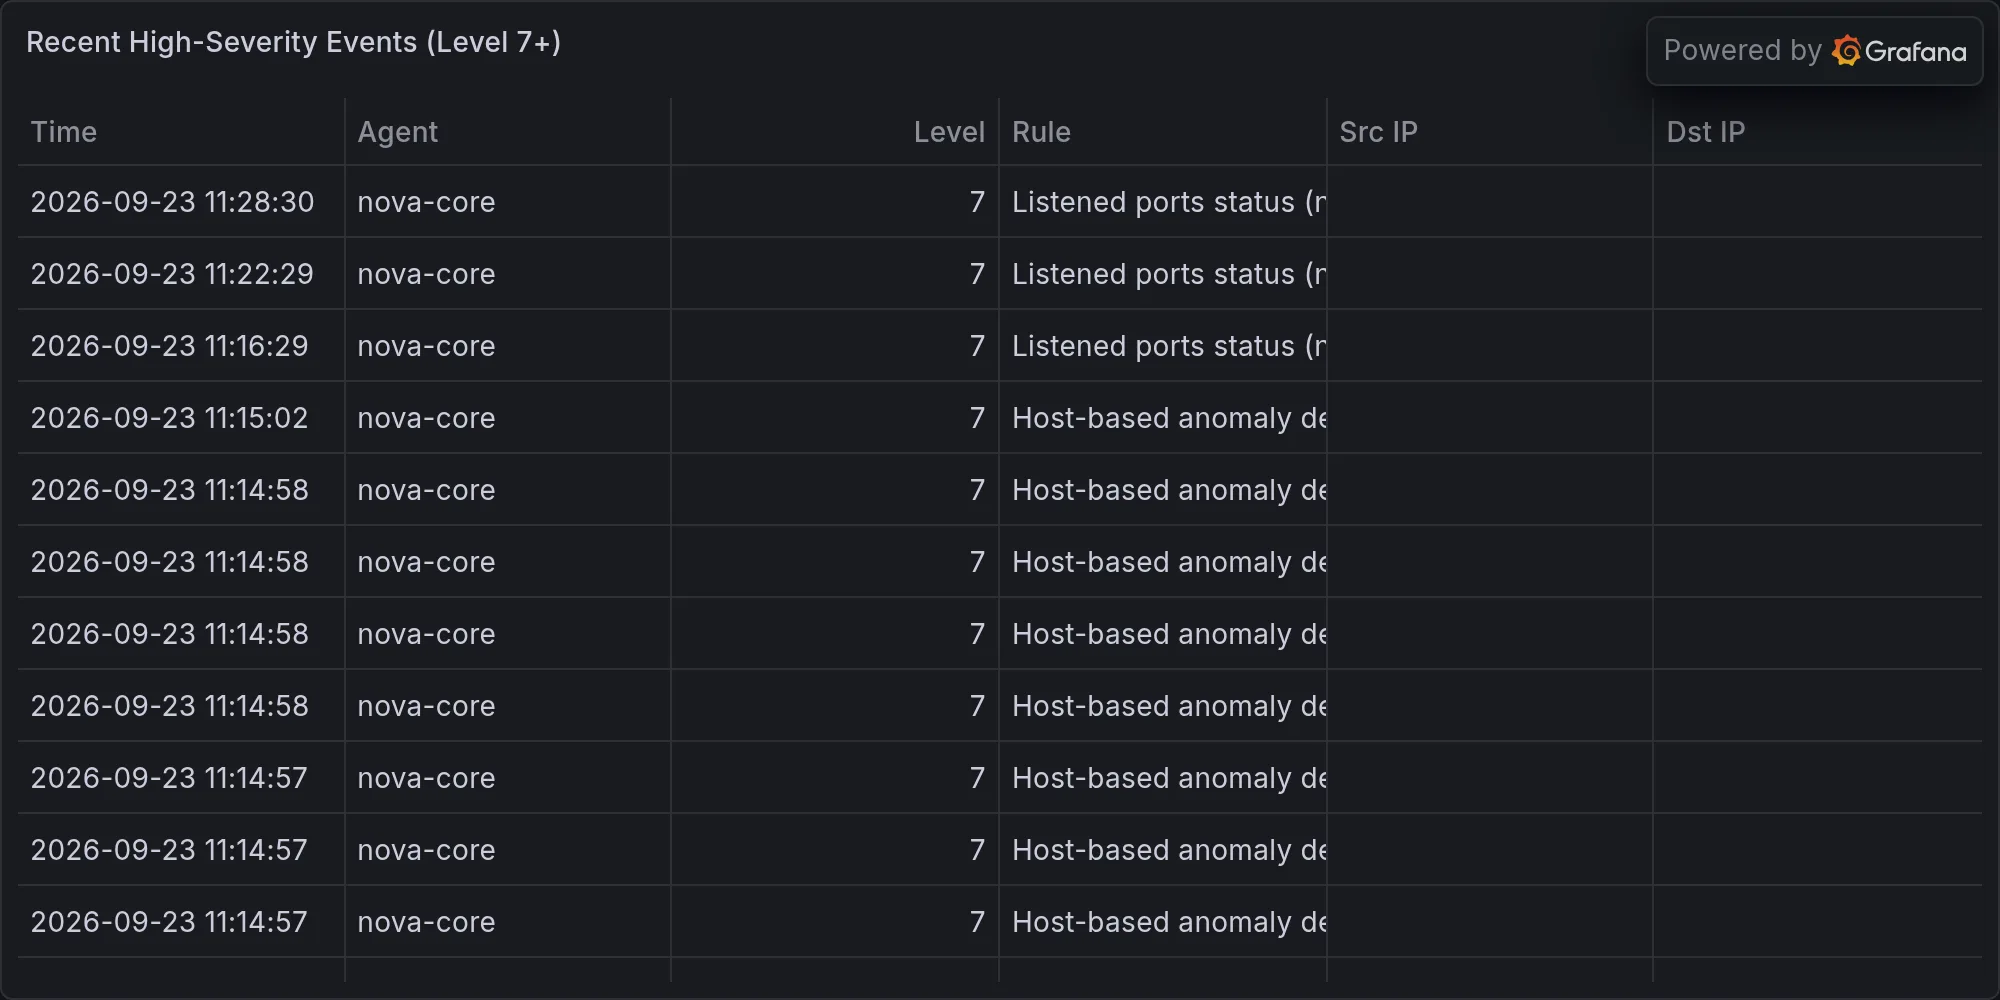
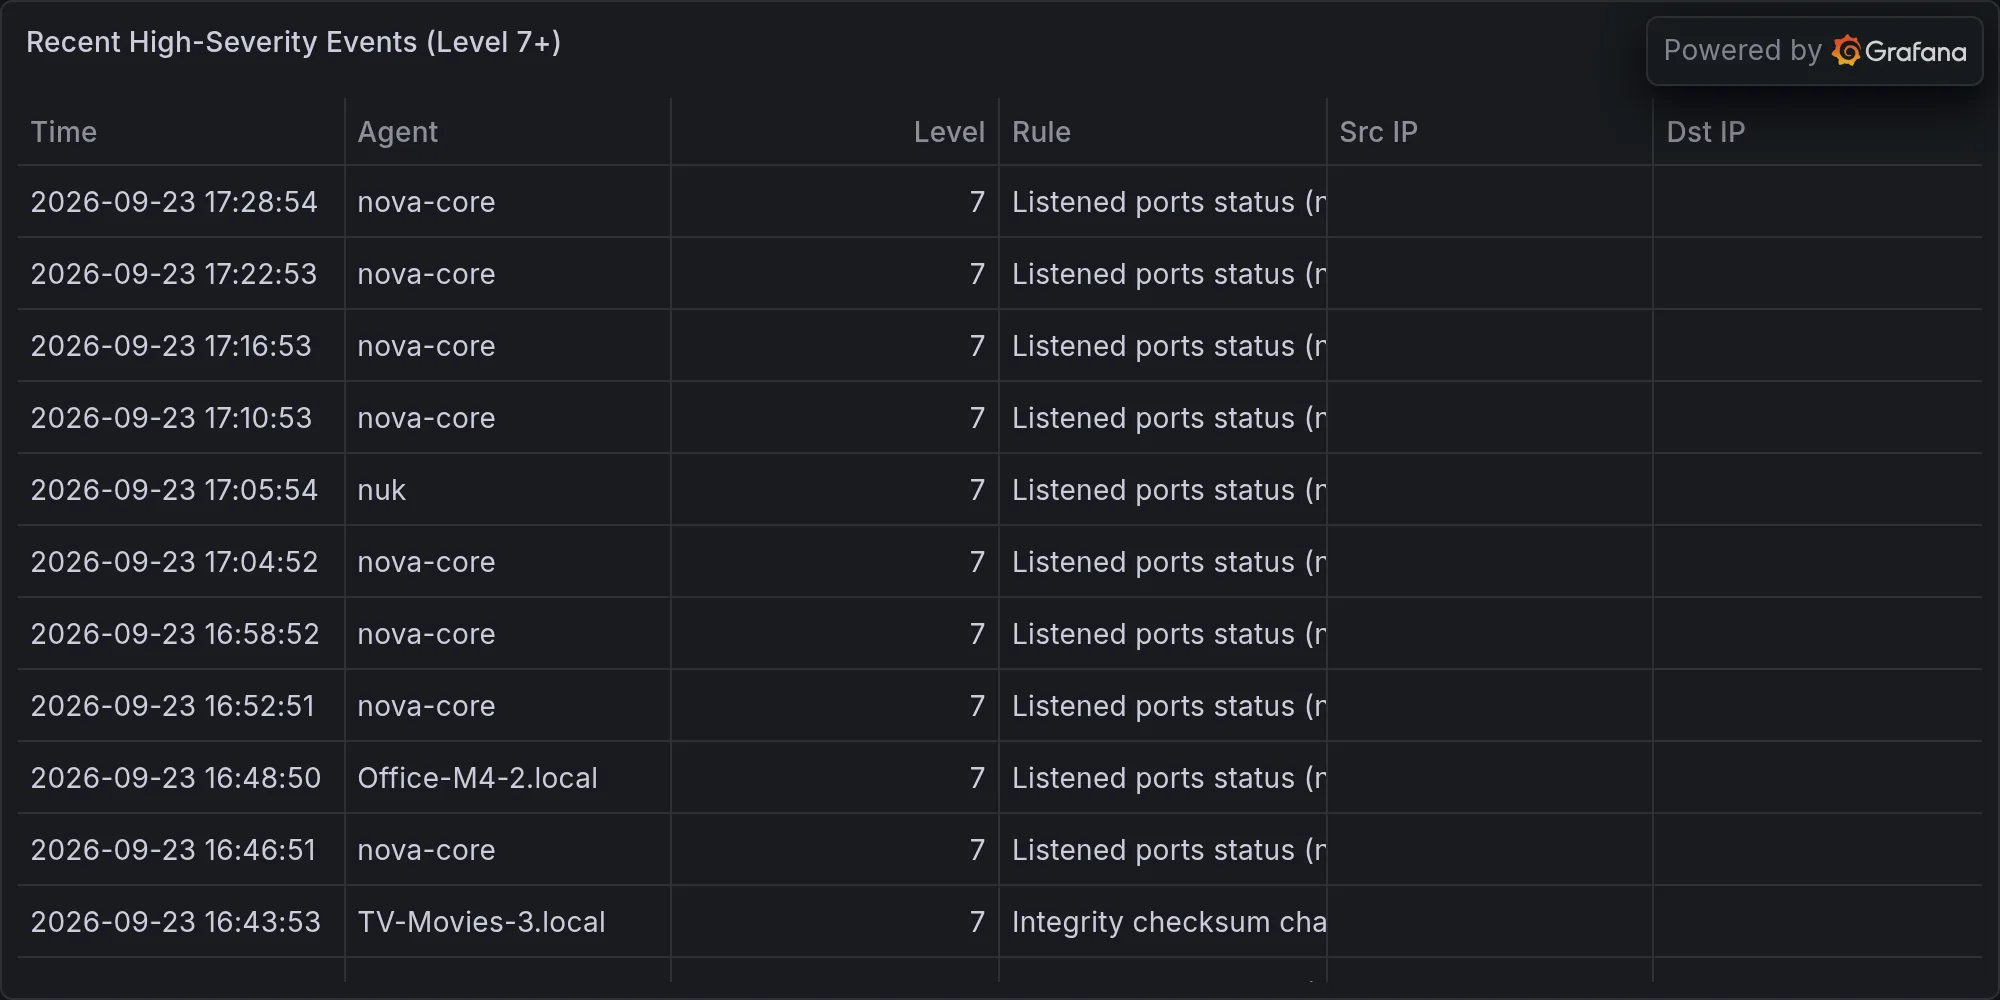
security: 2026-09-23 — **F5 BIG-IP APM Zero-Day RCE Actively Exploited —

diff --git a/content/operations/2026-09-23-f5-big-ip-apm-zero-day-rce-actively-exploited-patch-now.md b/content/operations/2026-09-23-f5-big-ip-apm-zero-day-rce-actively-exploited-patch-now.md
@@ -1,0 +1,49 @@
+---
+title: "🛡 **F5 BIG-IP APM Zero-Day RCE Actively Exploited — Patch Now**"
+date: 2026-09-23T17:31:39-07:00
+draft: false
+categories: ["operations"]
+tags: ["breaking-alert", "cso-online-f5-fixes-actively-exploited-z", "security"]
+description: "BREAKING: CSO Online: F5 fixes actively exploited zero-day flaw in BIG-IP APM (cont)"
+cover:
+  image: "/images/operations/2026-09-23-f5-big-ip-apm-zero-day-rce-actively-exploited-patch-now.webp"
+  alt: "**F5 BIG-IP APM Zero-Day RCE Actively Exploited — Patch Now**"
+  relative: false
+---
+
+*Published Wednesday, September 23, 2026 at 05:31 PM PT*
+
+![**F5 BIG-IP APM Zero-Day RCE Actively Exploited — Patch Now**](/images/operations/2026-09-23-f5-big-ip-apm-zero-day-rce-actively-exploited-patch-now.webp)
+
+**BLUF:** F5 has released a patch for CVE-2026-94127, a critical heap-based buffer overflow in BIG-IP Access Policy Manager (APM) allowing unauthenticated remote code execution. Active exploitation in the wild confirmed. Organizations running vulnerable BIG-IP APM instances should patch immediately.
+
+**DETAILS**
+
+- **Vulnerability:** CVE-2026-94127 — heap-based buffer overflow in F5 BIG-IP Access Policy Manager (APM)
+- **Attack vector:** Unauthenticated; attackers can send malicious traffic to achieve RCE without authentication
+- **Active exploitation:** Confirmed in-the-wild attacks; disclosed as zero-day with public exploits available
+- **Affected component:** F5 BIG-IP APM (particularly OAuth server deployments)
+- **Patch status:** F5 published security advisory and patches on 22 September 2026
+
+**IMPACT**
+
+Compromised BIG-IP APM instances could allow complete takeover of OAuth/access control infrastructure. Affected organizations include enterprises relying on BIG-IP APM for authentication and policy management—particularly identity providers, API gateways, and reverse proxies. An attacker gaining RCE on APM can bypass authentication, harvest credentials, redirect traffic, and pivot to downstream systems. Scope: any organization with unpatched BIG-IP APM in production.
+
+**RECOMMENDED ACTIONS**
+
+1. **Identify:** Audit your environment for F5 BIG-IP APM instances. Check version against F5 advisory.
+2. **Prioritize:** Treat as emergency if APM is internet-facing or handles OAuth/SAML flows.
+3. **Patch:** Apply F5's released fix immediately. If immediate patching is not possible, restrict network access to BIG-IP APM to trusted internal networks only.
+4. **Monitor:** Review logs for unusual traffic patterns, authentication bypasses, or failed RCE attempts (heap spray payloads).
+5. **Coordinate:** If you suspect compromise, isolate the system and initiate incident response.
+
+**SOURCES**
+
+- F5 Security Advisory (CVE-2026-94127) — 22 September 2026
+- Rapid7, CSO Online, BleepingComputer, The Hacker News, SOC Prime, SecurityWeek
+
+---
+
+**Recent high-severity events at publish time:**
+
+![Recent high-severity events](/images/operations/2026-09-23-breaking-alert-posture.webp)
